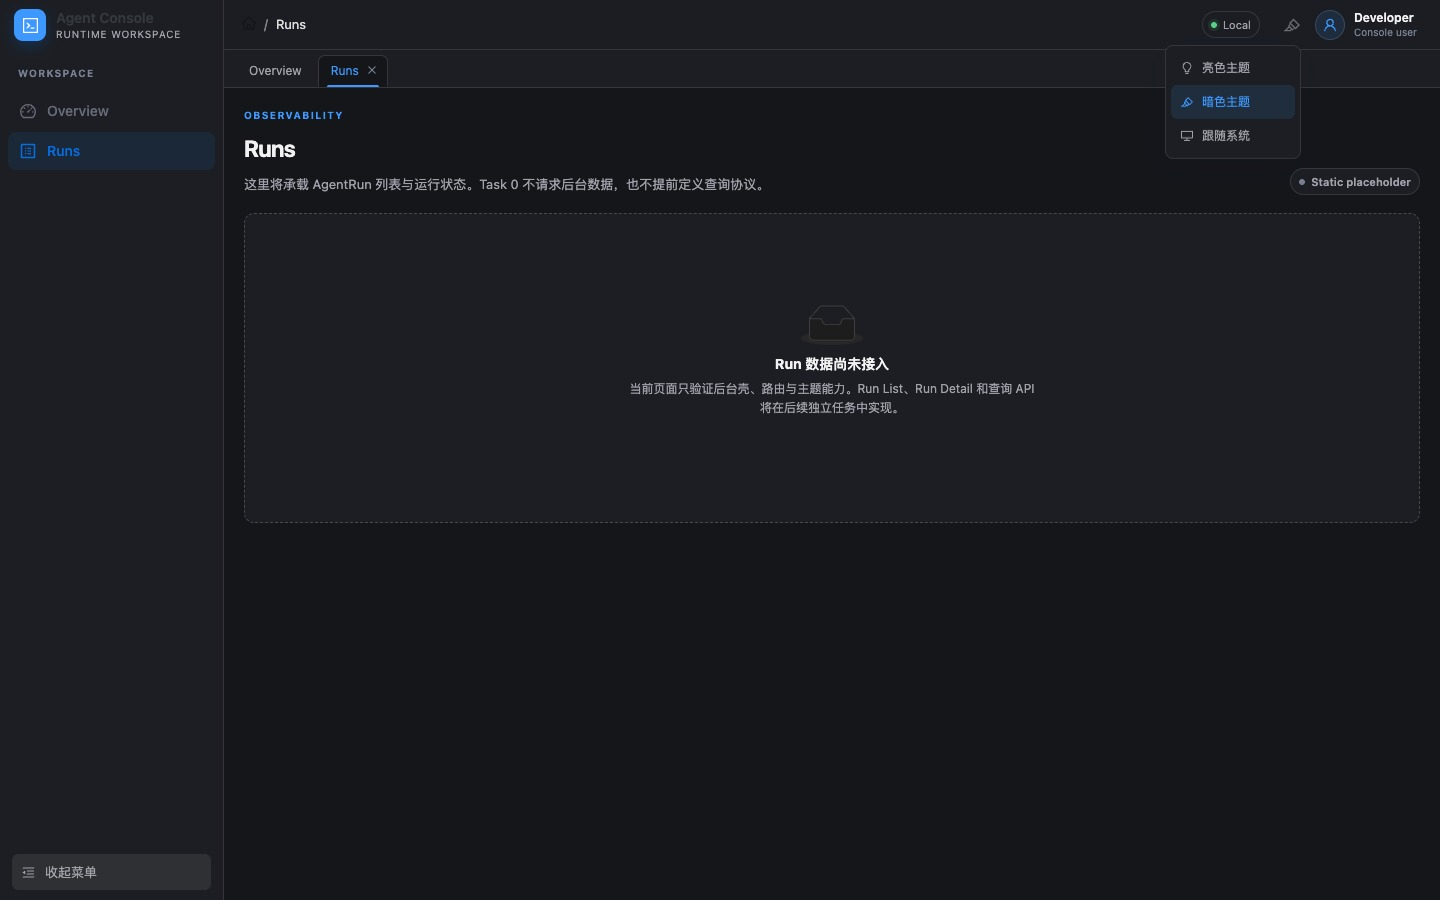
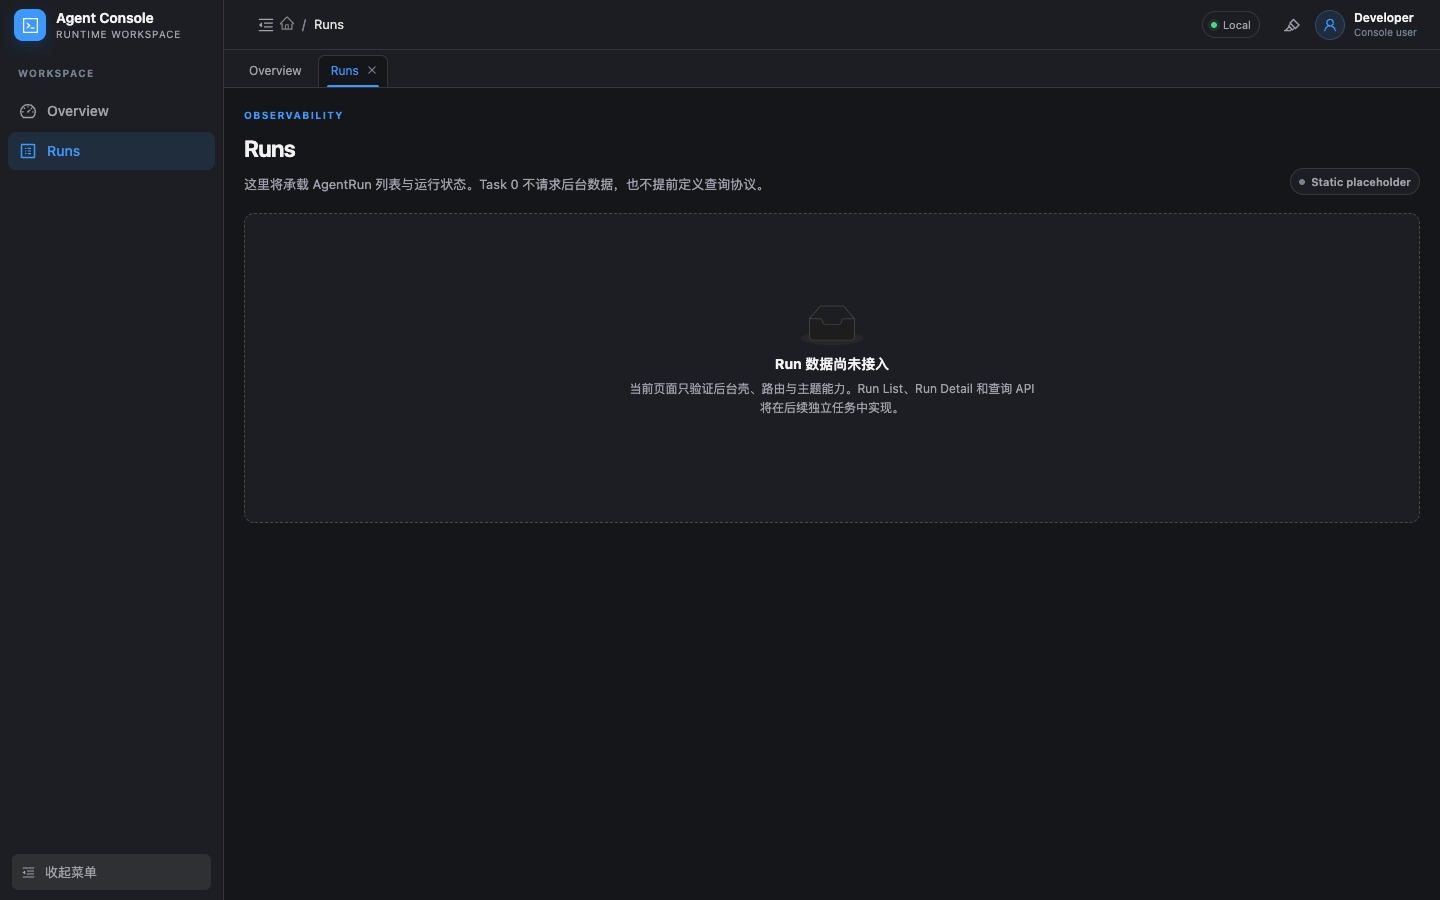
fix: 增加 Header 侧栏折叠入口

diff --git a/apps/admin/src/components/layout/AdminHeader.vue b/apps/admin/src/components/layout/AdminHeader.vue
@@ -1,13 +1,34 @@
 <script setup lang="ts">
-import { UserOutlined } from '@ant-design/icons-vue'
+import {
+  MenuFoldOutlined,
+  MenuUnfoldOutlined,
+  UserOutlined,
+} from '@ant-design/icons-vue'
+import { Button } from 'ant-design-vue'
+
+import { useAdminPreferencesStore } from '@/stores/preferences'
 
 import AdminBreadcrumb from './AdminBreadcrumb.vue'
 import ThemeToggle from './ThemeToggle.vue'
+
+const preferences = useAdminPreferencesStore()
 </script>
 
 <template>
   <header class="admin-header">
-    <AdminBreadcrumb />
+    <div class="admin-header__start">
+      <Button
+        class="admin-header__sidebar-toggle"
+        type="text"
+        :aria-label="preferences.sidebarCollapsed ? '展开 Sidebar' : '折叠 Sidebar'"
+        :title="preferences.sidebarCollapsed ? '展开 Sidebar' : '折叠 Sidebar'"
+        @click="preferences.toggleSidebar"
+      >
+        <MenuUnfoldOutlined v-if="preferences.sidebarCollapsed" />
+        <MenuFoldOutlined v-else />
+      </Button>
+      <AdminBreadcrumb />
+    </div>
 
     <div class="admin-header__actions">
       <span class="admin-header__environment">
@@ -44,9 +65,23 @@ import ThemeToggle from './ThemeToggle.vue'
 }
 
 .admin-header__actions,
+.admin-header__start,
 .admin-header__user {
   display: flex;
   align-items: center;
+}
+
+.admin-header__start {
+  min-width: 0;
+  gap: 4px;
+}
+
+.admin-header__sidebar-toggle {
+  display: grid;
+  width: 34px;
+  place-items: center;
+  color: var(--admin-text-muted);
+  font-size: 16px;
 }
 
 .admin-header__actions {